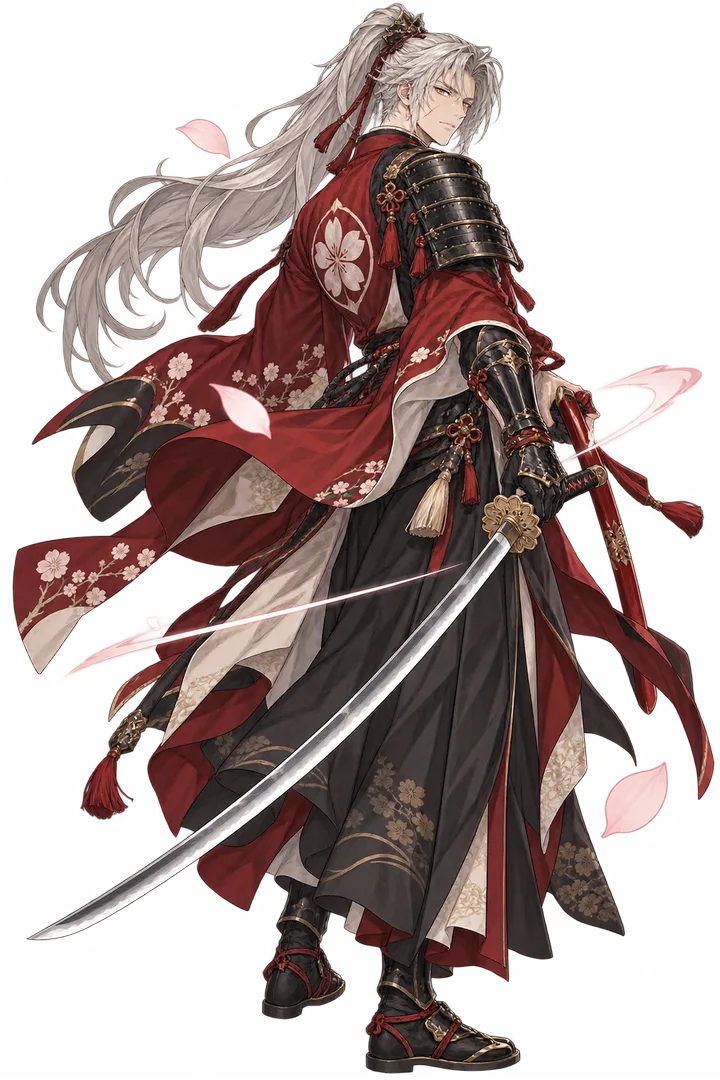
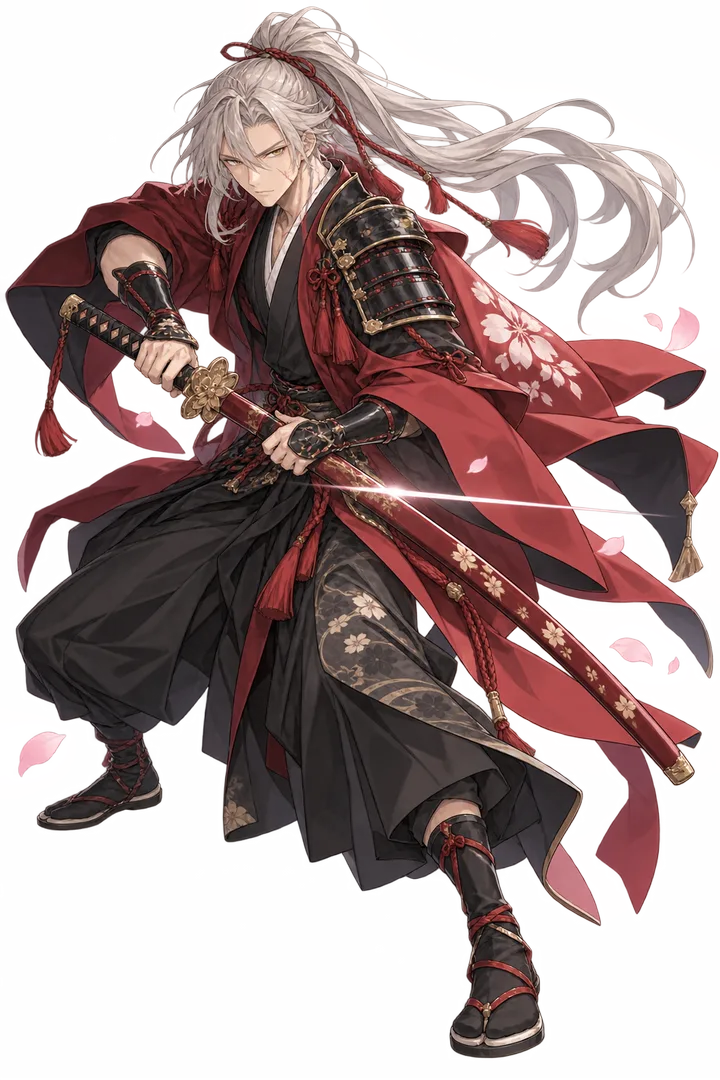
feat(v2cap): 侍の男性の新しい絵を神殿の全身と顔のアップに入れた（顔の目印を測り直し・ユーザー指示）
- 元の絵 上位職/侍男.png は 10-22 にユーザーが刀を抜く構えの絵に差し替えていた
- 顔の目印 ART_FACE.samurai.m を測り直した（両目のまんなか 0.353,0.146・あご 0.367,0.190。目とあごに点を打った図で確かめた）
- tools/v2cap-art.mjs で全身（web）と顔のアップ（face）を作り直した。ほかの絵は変わらない

diff --git a/src/v2cap/lib/classArt.js b/src/v2cap/lib/classArt.js
@@ -82,7 +82,8 @@ export const ART_FACE = {
   sisai:      { m:[0.487, 0.124, 0.497, 0.163], f:[0.487, 0.118, 0.506, 0.166] },
   yakusi:     { m:[0.471, 0.099, 0.490, 0.148], f:[0.477, 0.132, 0.472, 0.176] },
   // 上位クラス（2026-10-17・目盛りつきの拡大図で測り、目とあごに点を打った図で確かめた）
-  samurai:       { m:[0.631, 0.091, 0.624, 0.133], f:[0.555, 0.120, 0.570, 0.158] },
+  // 侍の男性は 2026-10-22 にユーザーが新しい絵（刀を抜く構え）に差し替えた→ 10-26 ユーザー指示で神殿にも入れ、目印を測り直した
+  samurai:       { m:[0.353, 0.146, 0.367, 0.190], f:[0.555, 0.120, 0.570, 0.158] },
   mahoukensi:    { m:[0.515, 0.087, 0.530, 0.131], f:[0.458, 0.107, 0.466, 0.147] },
   kyousensi:     { m:[0.534, 0.101, 0.523, 0.146], f:[0.680, 0.144, 0.683, 0.199] },
   seikisi:       { m:[0.472, 0.229, 0.474, 0.271], f:[0.529, 0.379, 0.535, 0.408] },
